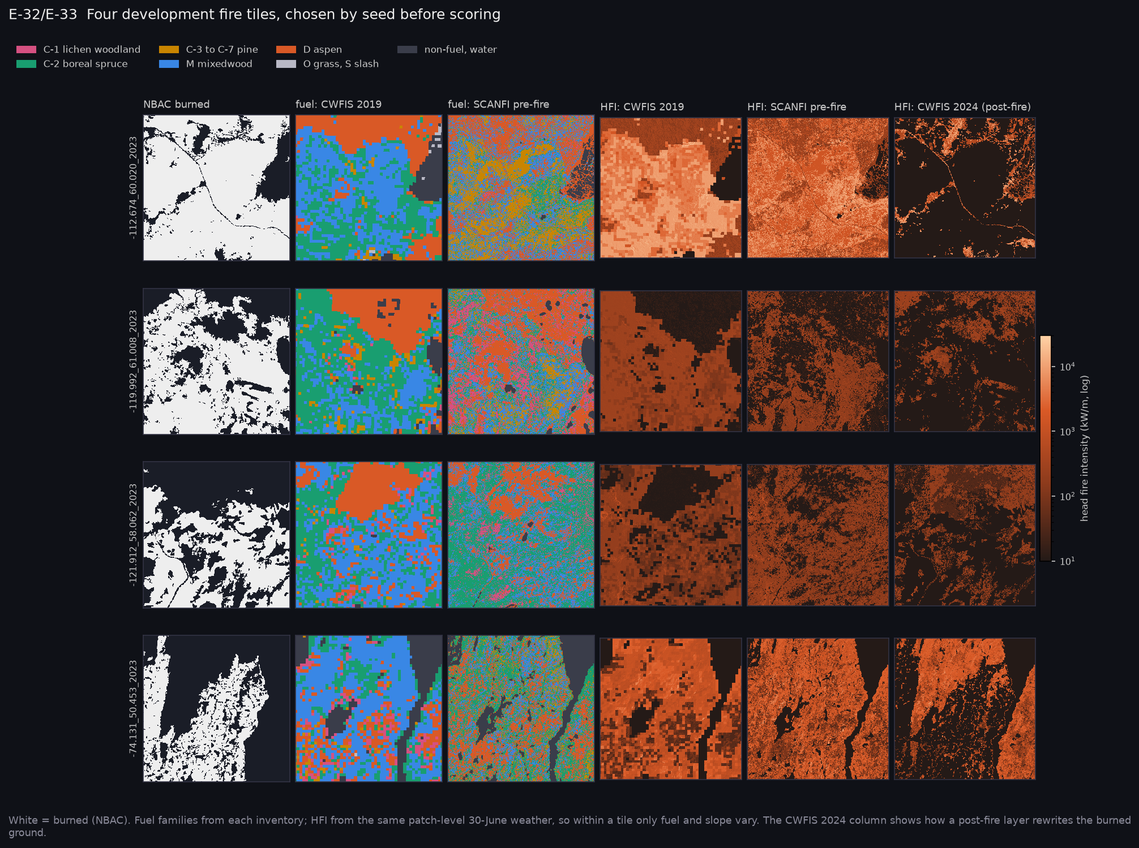
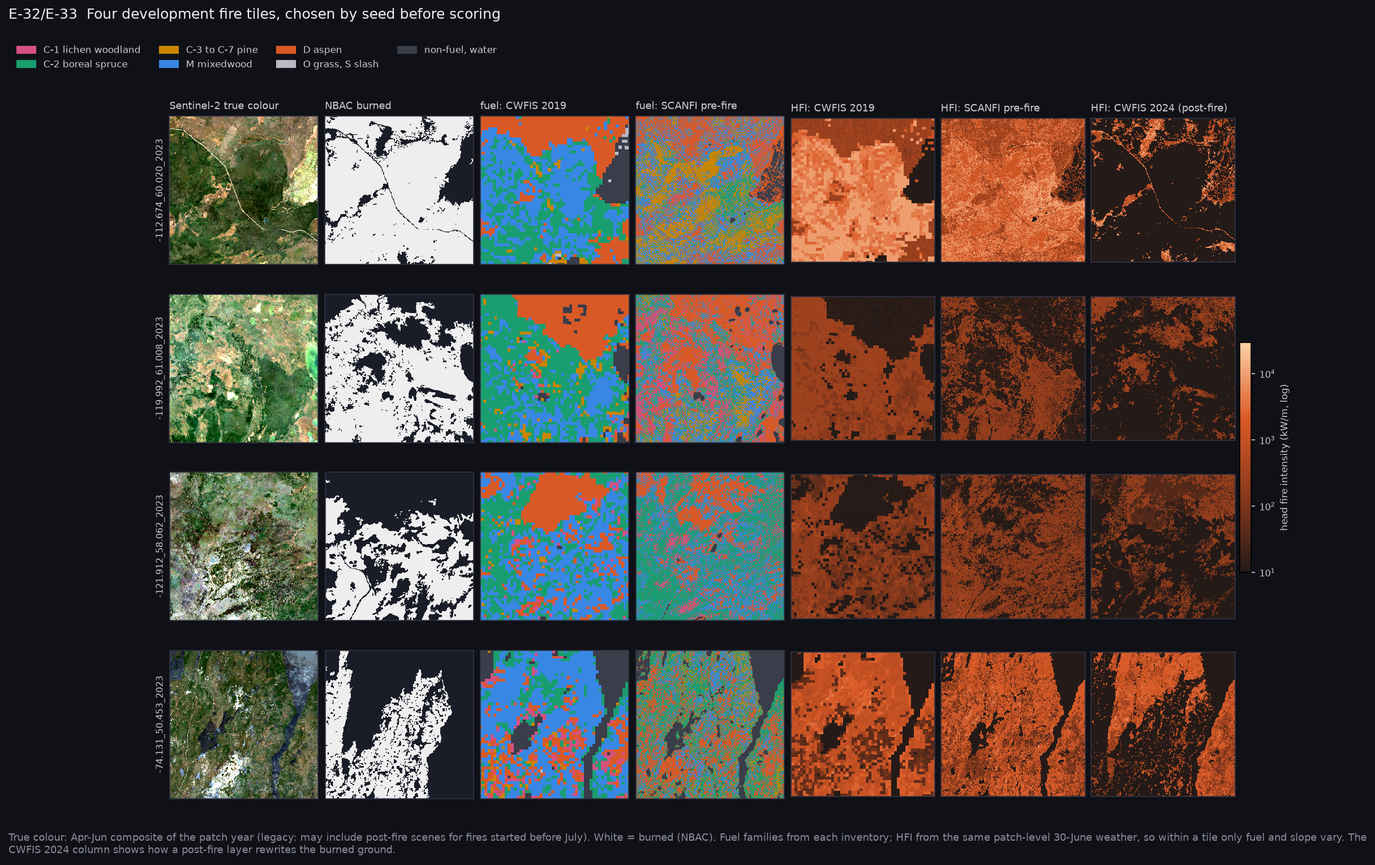
Tile figures open with a Sentinel-2 true-colour column
One shared grid for P2 and P3; the caption names the composite the RGB
came from (legacy Apr-Jun until P4's pre-fire composites exist).

diff --git a/scripts/make_results_package.py b/scripts/make_results_package.py
@@ -303,25 +303,25 @@ def p2_fuel_types(S, out):
     _save(fig, out, "fuel_types.png")
 
 
-def p2_tiles(S, run, out):
+def _tile_grid(S, run, out, cols, title, caption, name="tiles.png", heat_from=None):
+    """Seeded qualitative tiles, one row per tile. Column one is always the
+    Sentinel-2 true-colour view of the patch, so every map beside it can be
+    read against the ground it describes; the caption names its composite."""
     from matplotlib.colors import LinearSegmentedColormap, ListedColormap, LogNorm
     plt = _plt()
     stems = S["config"]["qual_stems"]
-    cols = [("nbac", "NBAC burned"), ("cwfis_2019_fuel", "fuel: CWFIS 2019"),
-            ("scanfi_tree_prefire_fuel", "fuel: SCANFI pre-fire"),
-            ("cwfis_2019_hfi", "HFI: CWFIS 2019"),
-            ("scanfi_tree_prefire_hfi", "HFI: SCANFI pre-fire"),
-            ("cwfis_2024_hfi", "HFI: CWFIS 2024 (post-fire)")]
+    cols = [("rgb", "Sentinel-2 true colour")] + list(cols)
     fam_of = {f: i for i, (_, fs, _) in enumerate(FAMILY) for f in fs}
     fam_cmap = ListedColormap([c for _, _, c in FAMILY] + [AX_BG])
     heat = LinearSegmentedColormap.from_list("heat", ["#241a17", "#8a3a1c", ORANGE, "#ffd2a6"])
-    norm = LogNorm(10, 30000)
-    fig, axes = plt.subplots(len(stems), len(cols), figsize=(2.3 * len(cols), 2.4 * len(stems)),
-                             facecolor=FIG_BG, gridspec_kw={"wspace": 0.04, "hspace": 0.18,
+    fig, axes = plt.subplots(len(stems), len(cols), figsize=(2.35 * len(cols), 2.45 * len(stems)),
+                             facecolor=FIG_BG, gridspec_kw={"wspace": 0.04, "hspace": 0.2,
                                                             "top": 0.86, "bottom": 0.04})
-    im = None
+    im, sources = None, set()
     for r, stem in enumerate(stems):
         z = np.load(run / "qual" / f"{stem}.npz")
+        if "rgb_source" in z:
+            sources.add(str(z["rgb_source"]))
         for c, (k, lab) in enumerate(cols):
             ax = axes[r, c]
             ax.set_facecolor(AX_BG)
@@ -333,32 +333,48 @@ def p2_tiles(S, run, out):
                 ax.text(0.5, 0.5, "not held", color=MUTED, ha="center", transform=ax.transAxes)
                 continue
             a = z[k]
-            if k == "nbac":
-                ax.imshow(a, cmap=ListedColormap([AX_BG, INK_BRIGHT]), vmin=0, vmax=1,
-                          interpolation="nearest")
+            if k == "rgb":
+                ax.imshow(a, interpolation="nearest")
+            elif k in ("nbac", "leaf"):
+                ax.imshow(a, cmap=ListedColormap([AX_BG, INK_BRIGHT if k == "nbac" else GREEN]),
+                          vmin=0, vmax=1, interpolation="nearest")
             elif k.endswith("_fuel"):
                 idx = np.vectorize(lambda f: fam_of.get(f, len(FAMILY)))(a)
                 ax.imshow(idx, cmap=fam_cmap, vmin=-0.5, vmax=len(FAMILY) + 0.5,
                           interpolation="nearest")
             else:
-                im = ax.imshow(np.clip(a, 10, None), cmap=heat, norm=norm, interpolation="nearest")
+                im = ax.imshow(np.clip(a, 10, None), cmap=heat, norm=LogNorm(10, 30000),
+                               interpolation="nearest")
             if r == 0:
                 ax.set_title(lab, color=INK, fontsize=8.5, loc="left")
             if c == 0:
                 ax.set_ylabel(stem.replace("_fire", ""), color=INK, fontsize=7.5)
-    handles = [plt.Rectangle((0, 0), 1, 1, color=c, label=name) for name, _, c in FAMILY]
-    fig.legend(handles=handles, loc="upper left", bbox_to_anchor=(0.01, 0.955),
-               ncol=4, frameon=False, labelcolor=INK, fontsize=8)
+    handles = [plt.Rectangle((0, 0), 1, 1, color=c, label=nm) for nm, _, c in FAMILY]
+    fig.legend(handles=handles, loc="upper left", bbox_to_anchor=(0.01, 0.955), ncol=4,
+               frameon=False, labelcolor=INK, fontsize=8)
     if im is not None:
-        cb = fig.colorbar(im, ax=axes[:, 3:], fraction=0.025, pad=0.01)
+        first = heat_from or next(i for i, (k, _) in enumerate(cols) if k.endswith("_hfi"))
+        cb = fig.colorbar(im, ax=axes[:, first:], fraction=0.025, pad=0.01)
         cb.set_label("head fire intensity (kW/m, log)", color=INK, fontsize=8)
         cb.ax.tick_params(colors=INK, labelsize=7.5)
-    fig.suptitle("E-32/E-33  Four development fire tiles, chosen by seed before scoring",
-                 color=INK_BRIGHT, x=0.01, y=0.99, ha="left", fontsize=12)
-    _caption(fig, "White = burned (NBAC). Fuel families from each inventory; HFI from the same "
-             "patch-level 30-June weather, so within a tile only fuel and slope vary. The "
-             "CWFIS 2024 column shows how a post-fire layer rewrites the burned ground.", y=0.0)
-    _save(fig, out, "tiles.png")
+    fig.suptitle(title, color=INK_BRIGHT, x=0.01, y=0.99, ha="left", fontsize=12)
+    rgb_note = ("True colour: " + "; ".join(sorted(sources)) + ". ") if sources else ""
+    _caption(fig, rgb_note + caption, y=0.0)
+    _save(fig, out, name)
+
+
+def p2_tiles(S, run, out):
+    _tile_grid(
+        S, run, out,
+        [("nbac", "NBAC burned"), ("cwfis_2019_fuel", "fuel: CWFIS 2019"),
+         ("scanfi_tree_prefire_fuel", "fuel: SCANFI pre-fire"),
+         ("cwfis_2019_hfi", "HFI: CWFIS 2019"),
+         ("scanfi_tree_prefire_hfi", "HFI: SCANFI pre-fire"),
+         ("cwfis_2024_hfi", "HFI: CWFIS 2024 (post-fire)")],
+        "E-32/E-33  Four development fire tiles, chosen by seed before scoring",
+        "White = burned (NBAC). Fuel families from each inventory; HFI from the same "
+        "patch-level 30-June weather, so within a tile only fuel and slope vary. The "
+        "CWFIS 2024 column shows how a post-fire layer rewrites the burned ground.")
 
 
 def _csv(path: Path, rows: list[dict]):
@@ -703,60 +719,16 @@ def p3_dates(W, out):
 
 
 def p3_tiles(S, run, out):
-    from matplotlib.colors import LinearSegmentedColormap, ListedColormap, LogNorm
-    plt = _plt()
-    stems = S["config"]["qual_stems"]
-    cols = [("nbac", "NBAC burned"), ("leaf", "leaf-on on D (CWFIS): green"),
-            ("scanfi_tree_prefire_fuel", "fuel: SCANFI pre-fire"),
-            ("scanfi_tree_prefire_hfi", "HFI: SCANFI, dated weather"),
-            ("cwfis_2019_hfi", "HFI: CWFIS 2019, dated weather")]
-    fam_of = {f: i for i, (_, fs, _) in enumerate(FAMILY) for f in fs}
-    fam_cmap = ListedColormap([c for _, _, c in FAMILY] + [AX_BG])
-    heat = LinearSegmentedColormap.from_list("heat", ["#241a17", "#8a3a1c", ORANGE, "#ffd2a6"])
-    fig, axes = plt.subplots(len(stems), len(cols), figsize=(2.4 * len(cols), 2.5 * len(stems)),
-                             facecolor=FIG_BG, gridspec_kw={"wspace": 0.04, "hspace": 0.2,
-                                                            "top": 0.86, "bottom": 0.04})
-    im = None
-    for r, stem in enumerate(stems):
-        z = np.load(run / "qual" / f"{stem}.npz")
-        for c, (k, lab) in enumerate(cols):
-            ax = axes[r, c]
-            ax.set_facecolor(AX_BG)
-            ax.set_xticks([])
-            ax.set_yticks([])
-            for s in ax.spines.values():
-                s.set_color(SPINE)
-            if k not in z:
-                ax.text(0.5, 0.5, "not held", color=MUTED, ha="center", transform=ax.transAxes)
-                continue
-            a = z[k]
-            if k in ("nbac", "leaf"):
-                ax.imshow(a, cmap=ListedColormap([AX_BG, INK_BRIGHT if k == "nbac" else GREEN]),
-                          vmin=0, vmax=1, interpolation="nearest")
-            elif k.endswith("_fuel"):
-                idx = np.vectorize(lambda f: fam_of.get(f, len(FAMILY)))(a)
-                ax.imshow(idx, cmap=fam_cmap, vmin=-0.5, vmax=len(FAMILY) + 0.5,
-                          interpolation="nearest")
-            else:
-                im = ax.imshow(np.clip(a, 10, None), cmap=heat, norm=LogNorm(10, 30000),
-                               interpolation="nearest")
-            if r == 0:
-                ax.set_title(lab, color=INK, fontsize=8.5, loc="left")
-            if c == 0:
-                ax.set_ylabel(stem.replace("_fire", ""), color=INK, fontsize=7.5)
-    handles = [plt.Rectangle((0, 0), 1, 1, color=c, label=name) for name, _, c in FAMILY]
-    fig.legend(handles=handles, loc="upper left", bbox_to_anchor=(0.01, 0.955), ncol=4,
-               frameon=False, labelcolor=INK, fontsize=8)
-    if im is not None:
-        cb = fig.colorbar(im, ax=axes[:, 3:], fraction=0.03, pad=0.01)
-        cb.set_label("head fire intensity (kW/m, log)", color=INK, fontsize=8)
-        cb.ax.tick_params(colors=INK, labelsize=7.5)
-    fig.suptitle("P3  The same seeded tiles under the dated design", color=INK_BRIGHT,
-                 x=0.01, y=0.99, ha="left", fontsize=12)
-    _caption(fig, "White = burned (NBAC). Green = deciduous leaf-on on D per the CWFIS "
-             "product (1 km), which switches D-1/D-2 and M-1/M-2 in FBP. HFI from each "
-             "patch's D-1 weather at 13:00 LDT with the C-2 start-up.", y=0.0)
-    _save(fig, out, "tiles.png")
+    _tile_grid(
+        S, run, out,
+        [("nbac", "NBAC burned"), ("leaf", "leaf-on on D (CWFIS): green"),
+         ("scanfi_tree_prefire_fuel", "fuel: SCANFI pre-fire"),
+         ("scanfi_tree_prefire_hfi", "HFI: SCANFI, dated weather"),
+         ("cwfis_2019_hfi", "HFI: CWFIS 2019, dated weather")],
+        "P3  The same seeded tiles under the dated design",
+        "White = burned (NBAC). Green = deciduous leaf-on on D per the CWFIS product "
+        "(1 km), which switches D-1/D-2 and M-1/M-2 in FBP. HFI from each patch's D-1 "
+        "weather at 13:00 LDT with the C-2 start-up.")
 
 
 def _within_pairs(run_a: Path, run_b: Path, variants=("scanfi_tree_prefire", "cwfis_2019"),
